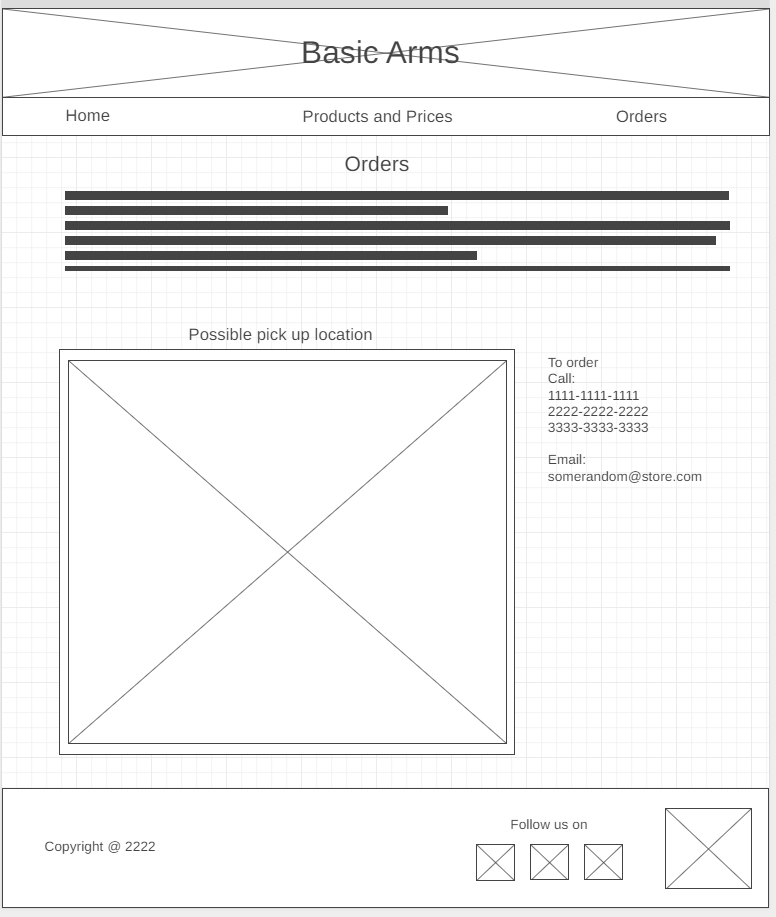
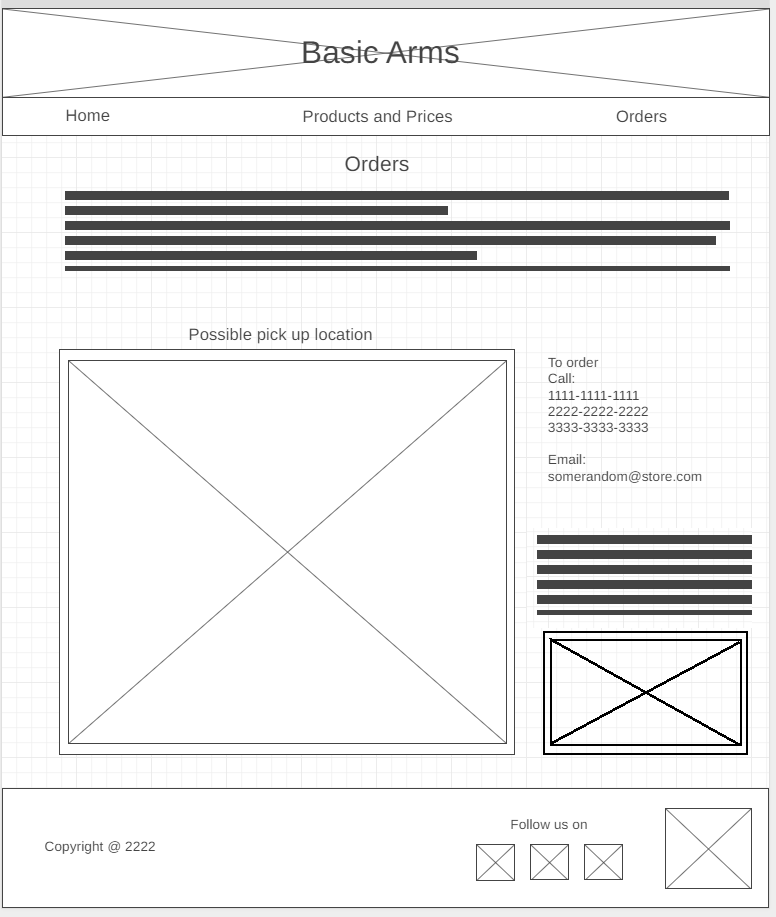
2е дитя сделано. Обновлена фрейм

Changed region(s): [[0.6804, 0.5802, 0.9897, 0.7328], [0.6804, 0.7023, 0.9588, 0.8244], [0.8041, 0.7328, 0.866, 0.7634]]

diff --git a/personalproject/styles/styles.css b/personalproject/styles/styles.css
@@ -159,7 +159,7 @@ h2 {
 }
 
 
-/*bodypart prod*/
+/*Prod and prices*/
 
 .prodintro {
     padding: 20px 80px;
@@ -204,6 +204,59 @@ h3 {
     font-size: 1em;
     color: #F2A65A;
     text-align: center;
+}
+
+
+/*Orders page*/
+
+.orderintro {
+    padding: 20px 80px;
+    font-family: 'Roboto Condensed', sans-serif;
+    font-size: 1.4em;
+    color: #F2A65A;
+    text-align: left;
+}
+
+.lowerpart {
+    display: grid;
+    grid-template-columns: 3fr 1fr;
+    grid-template-rows: 1fr 1fr;
+    align-items: center;
+    justify-content: center;
+    color: #F2A65A;
+    font-family: 'Roboto Condensed', sans-serif;
+    font-size: 1.4em;
+    padding-bottom: 2em;
+}
+
+.map {
+    grid-column: 1/2;
+    grid-row: 1/3;
+    max-width: 70%;
+    max-height: auto;
+    display: block;
+    text-align: center;
+    margin: auto;
+}
+
+.map img {
+    border: 10px solid #585123;
+}
+
+.contacts {
+    grid-column: 2/3;
+    grid-row: 1/2;
+    margin-left: -20%;
+}
+
+.additional {
+    grid-column: 2/3;
+    grid-row: 2/3;
+    margin-left: -20%;
+}
+
+.additional img {
+    border: 2px solid #F58549;
 }
 
 

diff --git a/personalproject/orders.html b/personalproject/orders.html
@@ -25,7 +25,7 @@
     </header>
     <main>
 
-      <section class="Orderintro">
+      <section class="orderintro">
         <h2>Orders</h2>
         <p>
           To ensure that all firearms are sold and purchased legally and safely, we strictly adhere to the legal
